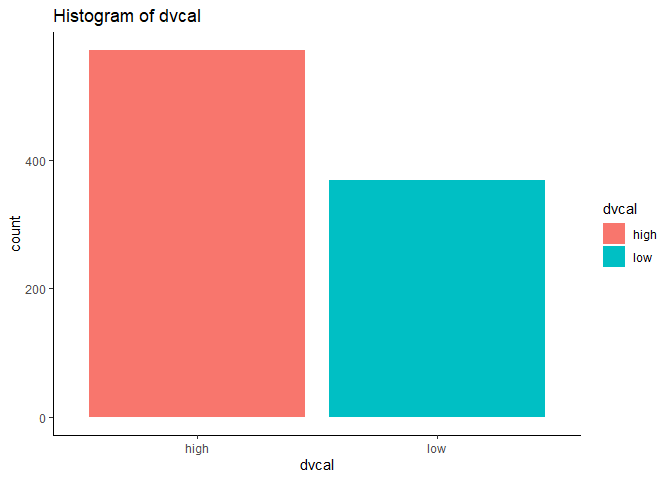
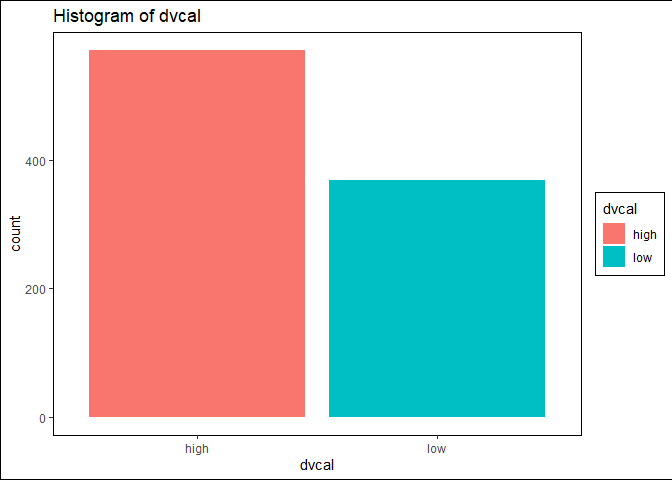
transparent plots

Changed region(s): [[0.0, 0.9688, 0.0312, 1.0], [0.0, 0.0, 0.0312, 0.0312]]

diff --git a/hack-cwru-workshop.md b/hack-cwru-workshop.md
@@ -1,14 +1,7 @@
----
-layout: page
-title: R, the tidyverse, and Machine Learning
-subtitle: CWRU Hackathon Workshop
-description: tutorial, introduction, walk-thorugh, taste, test of R, the tidyverse, dplyr, ggplot, caret, machine learning, ml, rstudio, programming concepts and practice
-author: Keaton Markey
-date: "2022/12/28"
-menubar_toc: true
-toc_title: Contents
-hero_height: is-fullwidth
----
+R, the tidyverse, and Machine Learning
+================
+Keaton Markey
+2022/12/28
 
 <link href="assets/css/style.css" rel="stylesheet">
 
@@ -261,11 +254,11 @@ matrix1
 ```
 
     ##          [,1]     [,2]
-    ## [1,] 3.480571 6.927518
-    ## [2,] 4.727471 5.678969
-    ## [3,] 5.637461 6.807035
-    ## [4,] 4.166759 6.234917
-    ## [5,] 2.270474 5.353819
+    ## [1,] 2.879958 7.224661
+    ## [2,] 4.986080 7.185012
+    ## [3,] 4.791872 5.119443
+    ## [4,] 4.292041 6.184423
+    ## [5,] 5.596733 7.030802
 
 To index this class of object, the column names and row names give us a
 pretty good idea. To get a specific element, index the row then column.
@@ -274,7 +267,7 @@ pretty good idea. To get a specific element, index the row then column.
 matrix1[3,1]
 ```
 
-    ## [1] 5.637461
+    ## [1] 4.791872
 
 Matrices can also be indexed as one-dimensional by supplying one index.
 The columns wrap to the next one.
@@ -283,13 +276,13 @@ The columns wrap to the next one.
 matrix1[6]
 ```
 
-    ## [1] 6.927518
+    ## [1] 7.224661
 
 ``` r
 matrix1[1,2]
 ```
 
-    ## [1] 6.927518
+    ## [1] 7.224661
 
 To get a full row or column, just leave the other dimension blank.
 
@@ -297,7 +290,7 @@ To get a full row or column, just leave the other dimension blank.
 matrix1[1,]
 ```
 
-    ## [1] 3.480571 6.927518
+    ## [1] 2.879958 7.224661
 
 ## Data Frames
 
@@ -318,16 +311,16 @@ dataframe1
 ```
 
     ##         col1 col2
-    ## 1   3.480571    1
-    ## 2   4.727471    2
-    ## 3   5.637461    3
-    ## 4   4.166759    4
-    ## 5   2.270474    5
-    ## 6   6.927518    6
-    ## 7   5.678969    7
-    ## 8   6.807035    8
-    ## 9   6.234917    9
-    ## 10  5.353819   10
+    ## 1   2.879958    1
+    ## 2   4.986080    2
+    ## 3   4.791872    3
+    ## 4   4.292041    4
+    ## 5   5.596733    5
+    ## 6   7.224661    6
+    ## 7   7.185012    7
+    ## 8   5.119443    8
+    ## 9   6.184423    9
+    ## 10  7.030802   10
     ## 11 78.000000   11
     ## 12 44.000000   12
 
@@ -338,8 +331,8 @@ returns a vector.
 dataframe1$col1
 ```
 
-    ##  [1]  3.480571  4.727471  5.637461  4.166759  2.270474  6.927518  5.678969
-    ##  [8]  6.807035  6.234917  5.353819 78.000000 44.000000
+    ##  [1]  2.879958  4.986080  4.791872  4.292041  5.596733  7.224661  7.185012
+    ##  [8]  5.119443  6.184423  7.030802 78.000000 44.000000
 
 You can also index like you do with matrices, but since it’s a
 dataframe, the first method is preferred.
@@ -348,8 +341,8 @@ dataframe, the first method is preferred.
 dataframe1[,1]
 ```
 
-    ##  [1]  3.480571  4.727471  5.637461  4.166759  2.270474  6.927518  5.678969
-    ##  [8]  6.807035  6.234917  5.353819 78.000000 44.000000
+    ##  [1]  2.879958  4.986080  4.791872  4.292041  5.596733  7.224661  7.185012
+    ##  [8]  5.119443  6.184423  7.030802 78.000000 44.000000
 
 ## Conditional Indexing
 
@@ -366,7 +359,7 @@ greater_than_1 <- dataframe1$col1 > 4
 greater_than_1
 ```
 
-    ##  [1] FALSE  TRUE  TRUE  TRUE FALSE  TRUE  TRUE  TRUE  TRUE  TRUE  TRUE  TRUE
+    ##  [1] FALSE  TRUE  TRUE  TRUE  TRUE  TRUE  TRUE  TRUE  TRUE  TRUE  TRUE  TRUE
 
 Here, we receive a vector of boolean (True or False) values. We can use
 this vector to index the original vector. So we only receive elements
@@ -376,15 +369,15 @@ from col1 where greater_than_1 is equal to True.
 dataframe1$col1
 ```
 
-    ##  [1]  3.480571  4.727471  5.637461  4.166759  2.270474  6.927518  5.678969
-    ##  [8]  6.807035  6.234917  5.353819 78.000000 44.000000
+    ##  [1]  2.879958  4.986080  4.791872  4.292041  5.596733  7.224661  7.185012
+    ##  [8]  5.119443  6.184423  7.030802 78.000000 44.000000
 
 ``` r
 dataframe1$col1[greater_than_1]
 ```
 
-    ##  [1]  4.727471  5.637461  4.166759  6.927518  5.678969  6.807035  6.234917
-    ##  [8]  5.353819 78.000000 44.000000
+    ##  [1]  4.986080  4.791872  4.292041  5.596733  7.224661  7.185012  5.119443
+    ##  [8]  6.184423  7.030802 78.000000 44.000000
 
 This is an extremely powerful tool in base R. You can also create other
 conditionals with:
@@ -528,10 +521,10 @@ library(tidyverse)
 ```
 
     ## -- Attaching packages --------------------------------------- tidyverse 1.3.2 --
-    ## v ggplot2 3.4.0      v purrr   0.3.5 
     ## v tibble  3.1.8      v dplyr   1.0.10
     ## v tidyr   1.2.1      v stringr 1.5.0 
     ## v readr   2.1.3      v forcats 0.5.2 
+    ## v purrr   0.3.5      
     ## -- Conflicts ------------------------------------------ tidyverse_conflicts() --
     ## x dplyr::filter() masks stats::filter()
     ## x dplyr::lag()    masks stats::lag()
@@ -722,9 +715,10 @@ ggplot(mtcars) + geom_bar(aes(x = cyl, fill = factor(cyl)), stat = 'count') +
          y = "Count",
          title = "Histogram of Cylinders") +
     
-    # Since the default ggplot theme is bare-bones, I usually throw on a built-in theme
+    # Since the default ggplot theme is bare-bones, I usually throw on a better one
+    # I'm using a custom theme similar to theme_classic(), but modified for this website
     
-    theme_classic()
+    my_theme()
 ```
 
 ![](hack-cwru-workshop_files/figure-gfm/unnamed-chunk-34-1.png)<!-- -->
@@ -735,6 +729,10 @@ communicated to others. There are lots of industry-leading tools besides
 R that use can use to visualize data. More info about one of these tools
 can be found on [the Tableau
 website](https://www.tableau.com/learn/articles/data-visualization).
+
+Also, to learn how I created this custom theme, check out [this tutorial
+by Maddie Pickens on
+RPubs](https://rpubs.com/mclaire19/ggplot2-custom-themes).
 
 # Machine Learning
 
@@ -937,7 +935,7 @@ ggplot(data = fitbit) +
     
     # Add a better theme
     
-    theme_classic()
+    my_theme()
 ```
 
 ![](hack-cwru-workshop_files/figure-gfm/unnamed-chunk-40-1.png)<!-- -->
@@ -1039,7 +1037,7 @@ ggplot(data = fitbit) +
     
     # Add a better theme
     
-    theme_classic()
+    my_theme()
 ```
 
 ![](hack-cwru-workshop_files/figure-gfm/unnamed-chunk-43-1.png)<!-- -->
@@ -1085,7 +1083,7 @@ ggplot(fit_new) +
     
     labs(title = "Histogram of dvcal") + 
     
-    theme_classic()
+    my_theme()
 ```
 
     ## Warning in geom_histogram(aes(x = dvcal, fill = dvcal), stat = "count"):
